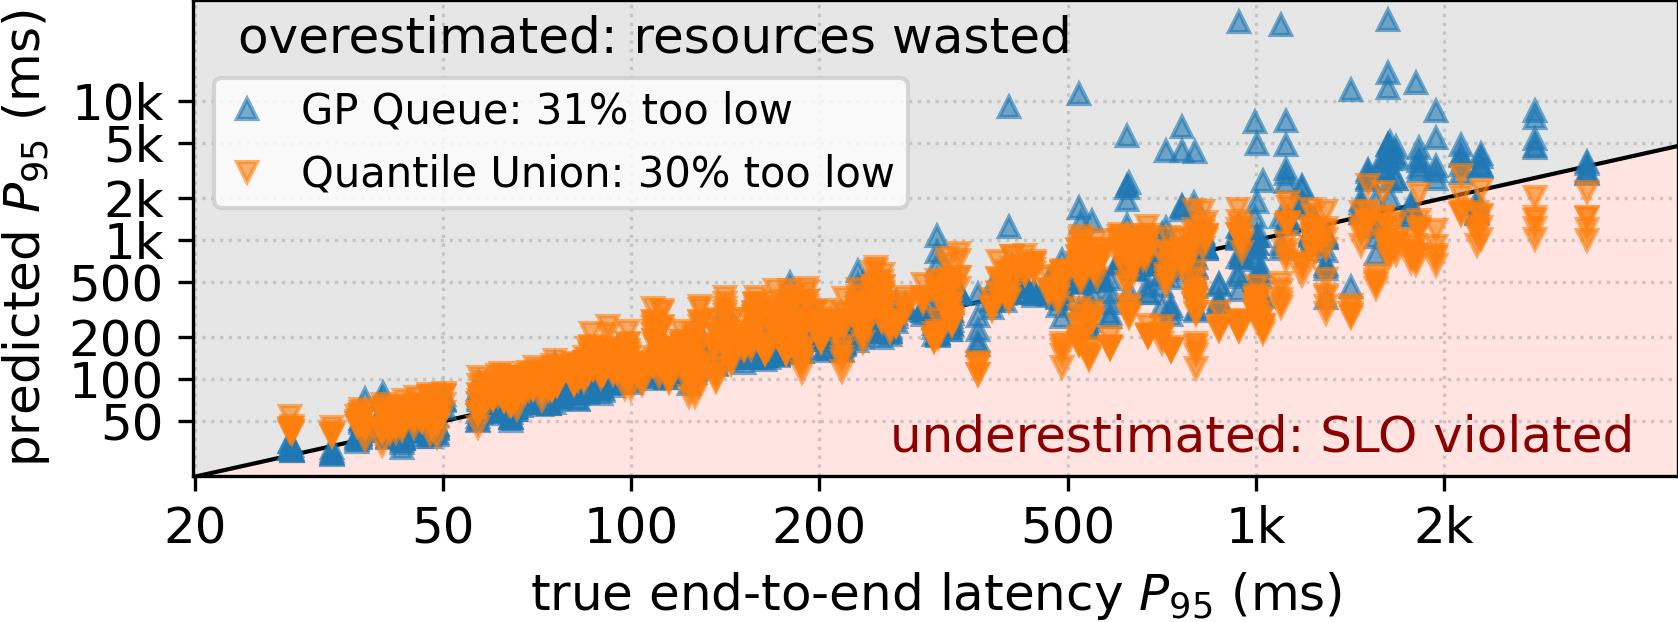
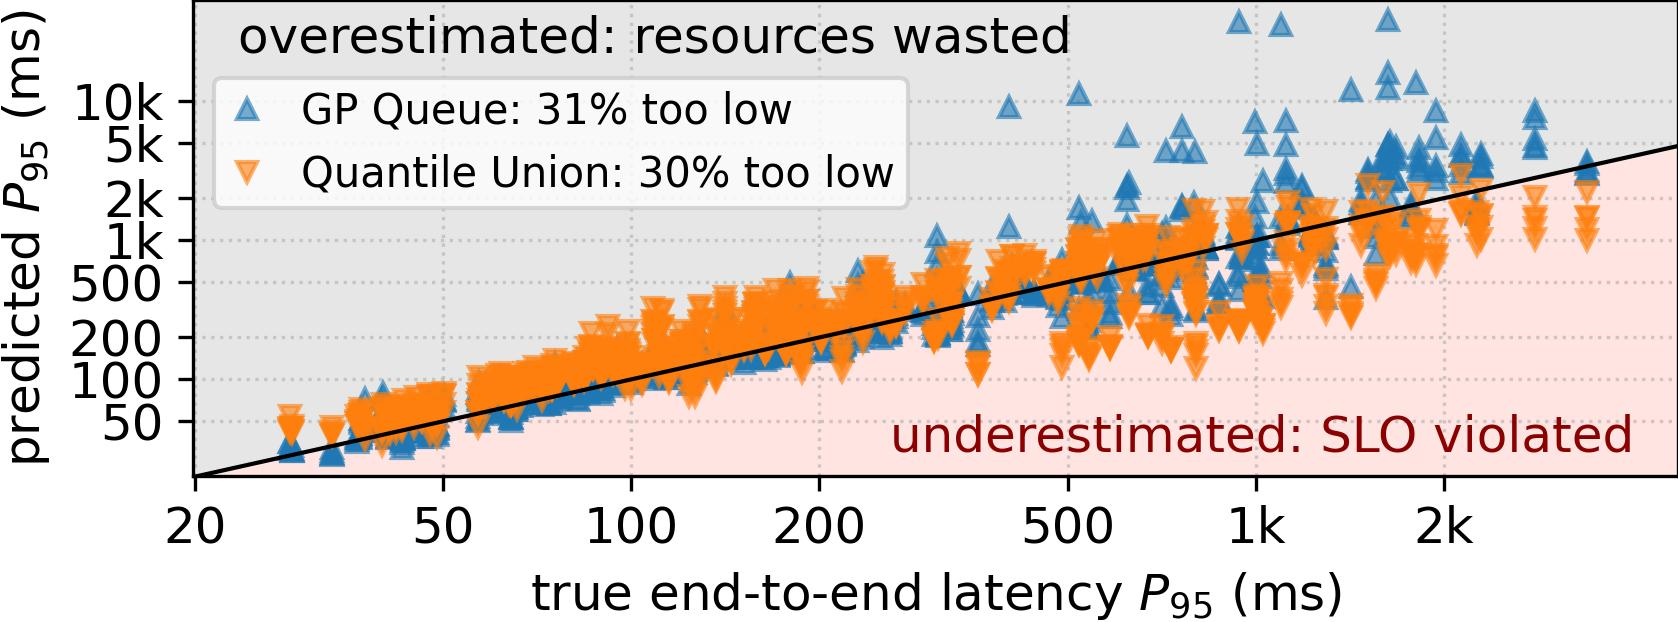
draw the diagonal of the problem figure above the points

diff --git a/notebooks/tsc/problem_figure.py b/notebooks/tsc/problem_figure.py
@@ -133,7 +133,7 @@ y_high = 1e3 * 1.4 * max(predicted[name][finite[name]].max() for name in point_p
 low, high = min(x_low, y_low), max(x_high, y_high)
 ax_scatter.fill_between([low, high], [low, high], [high, high], color="0.9", linewidth=0)   # above the diagonal: overestimated
 ax_scatter.fill_between([low, high], [low, low], [low, high], color="mistyrose", linewidth=0)   # below: underestimated
-ax_scatter.plot([low, high], [low, high], color="black", linewidth=1)   # no legend entry: the two zones it separates are labeled
+ax_scatter.plot([low, high], [low, high], color="black", linewidth=1, zorder=3)   # above the points (zorder 2), so it stays visible; no legend entry: the two zones it separates are labeled
 for name in point_predictors:
     marker = METHOD_STYLES[name][0]   # the marker of the method in the evaluation figures
     below = np.mean(predicted[name][finite[name]] < truth[finite[name]])
